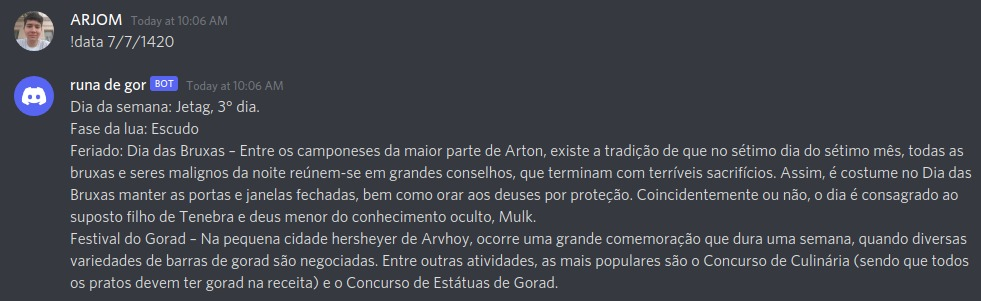
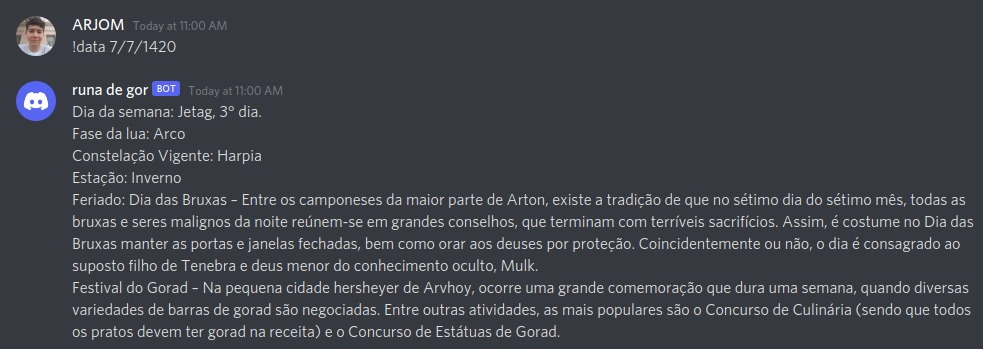
adiciona descricao do comando signo e help tambem atualiza imagens do comando data

Changed region(s): [[0.0612, 0.6279, 1.0, 0.9867], [0.0, 0.2093, 1.0, 0.598], [0.0, 0.0299, 0.2446, 0.1794]]

diff --git a/README.md b/README.md
@@ -9,6 +9,12 @@ O bot foi criado para auxiliar jogos de RPG no universo de Tormenta que utilizam
 
 Todos os comandos usam o prefixo `!`, então para evocar um comando você deve usar `!<comando> <valores>`.
 
+### Help
+
+Esse comando lista todos os comandos disponíveis junto de uma descrição sobre cada um.
+
+![Imagem de exemplo do comando help](exemplo-4.jpeg)
+
 ### Data
 
 Pode receber dois tipos de valor: de uma data no formato `dia/mês/ano` ou de um texto com o nome de alguma comemoração específica entre aspas como `"<nome-da-comemoração>"`. Para o primeiro tipo de valor é enviado uma mensagem informando o dia da semana (incluindo a posição do dia, Ex: Aztag, 1° dia.), a fase da lua naquele dia, e, caso possua, quaisquer feriados naquela data. O segundo tipo mostra apenas a descrição da festividade.
@@ -17,6 +23,12 @@ Exemplos:
 
 ![Imagem de exemplo de uso do comando data](exemplo.jpeg)
 ![Imagem de exemplo de uso do comando data informando o nome de uma data](exemplo-3.jpeg)
+
+### Signo
+
+Pode receber dois tipos de valor: o nome de um signo, ou o nome de uma mês. Para qualquer valor válido informado, será enviado uma mensagem contendo os detalhes sobre o signo.
+![Imagem de exemplo de uso do comando signo](exemplo-5.jpeg)
+![Imagem de exemplo de uso do comando signo informando o nome de um mês](exemplo-6.jpeg)
 
 ### Calendário
 
